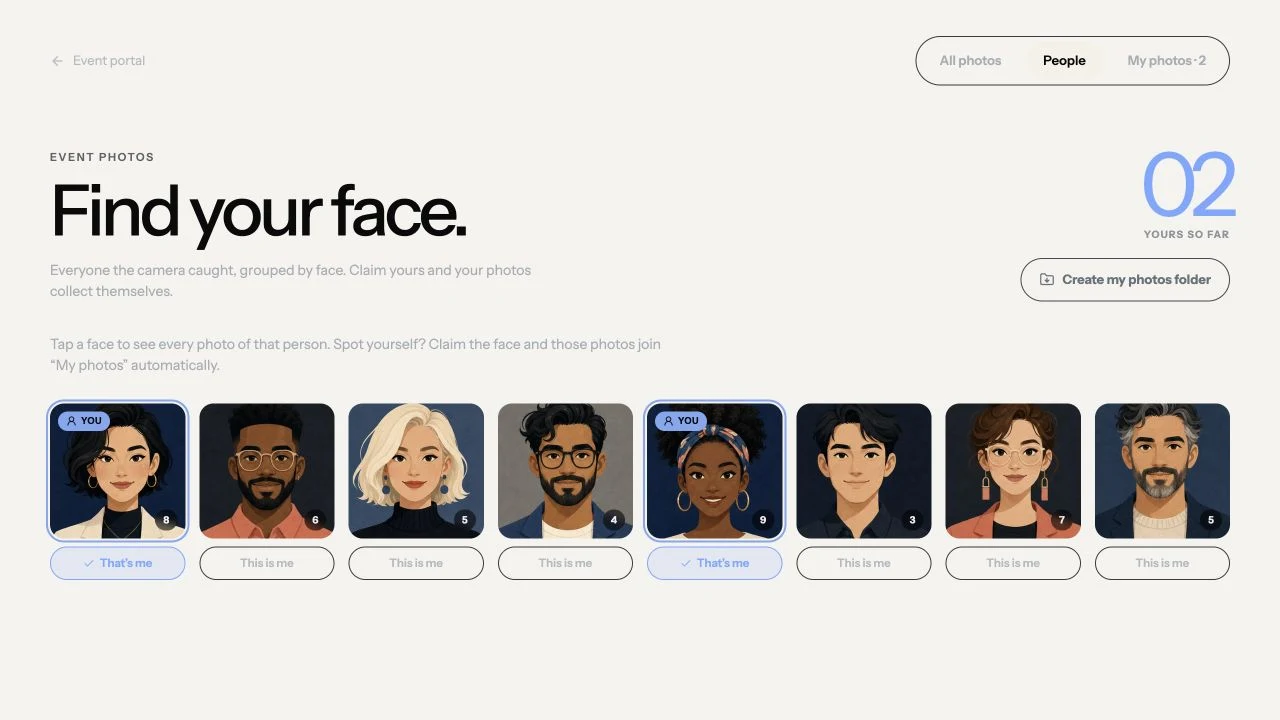
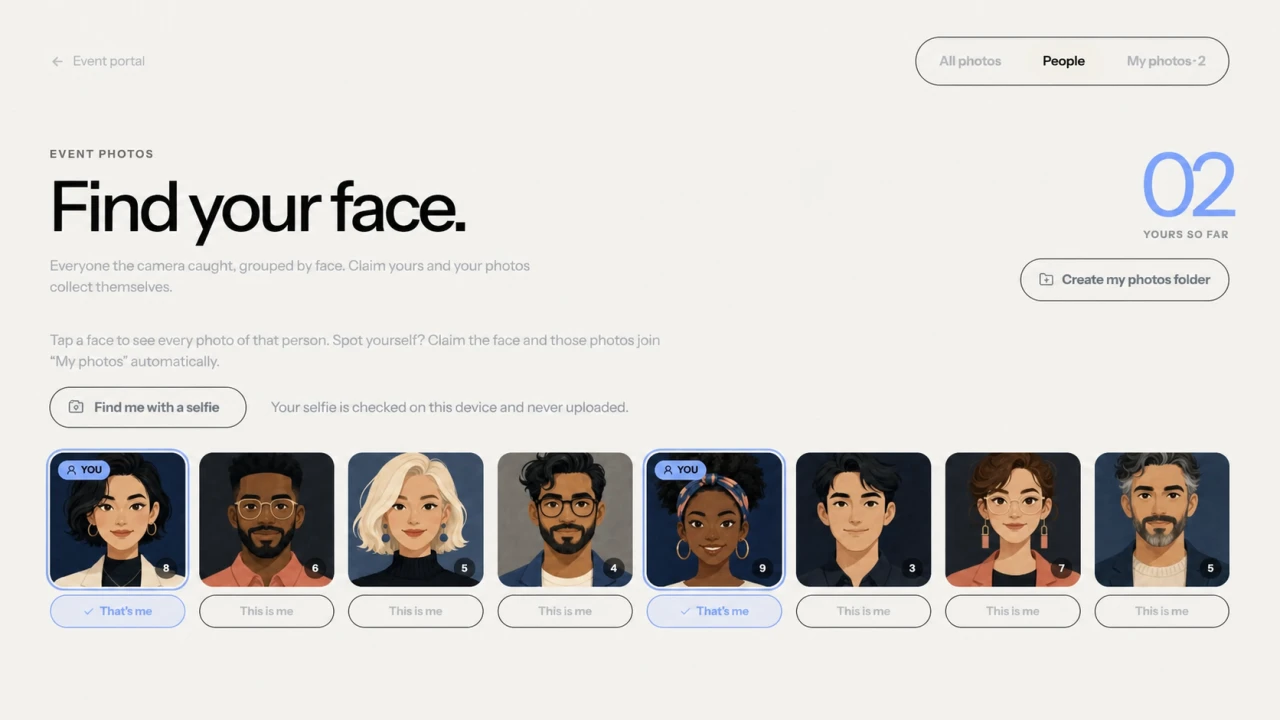
docs: document selfie face matching

diff --git a/README.md b/README.md
@@ -22,7 +22,7 @@ After check-in, the portal unlocks personal Codex and API credit links.
 
 ### Face discovery
 
-Participants and mentors can browse detected people, open every photo in a face group, and claim their own group so matching images automatically appear under “My photos.” A selfie shortcut suggests likely matches: the photo is analyzed on the participant's device and never uploaded.
+Participants and mentors can browse detected people, open every photo in a face group, and claim their own group so matching images automatically appear under “My photos.” They can also upload a selfie or another clear photo to find likely face groups. The photo is analyzed on the participant's device and never uploaded.
 
 ![Face discovery with fictional illustrated demo people](docs/screenshots/face-discovery.webp)
 
@@ -172,7 +172,7 @@ Analytics events exclude participant identifiers, URLs, personal keys, promo val
 - Save each participant's personal picks without modifying or copying source files
 - Group detected faces across event photos into a browsable people gallery
 - Let participants and mentors claim their face group and collect matching images under “My photos”
-- Suggest likely face groups from a selfie embedded on the participant's device, without uploading or storing the selfie
+- Upload a selfie or another clear photo to find likely face groups, with on-device analysis and no photo upload or storage
 - Validate newly selected images against the configured event folder tree
 - Create or reuse a participant-specific folder under a shared photo-picks parent folder
 - Reconcile that folder on demand by copying new picks and trashing deselected copies